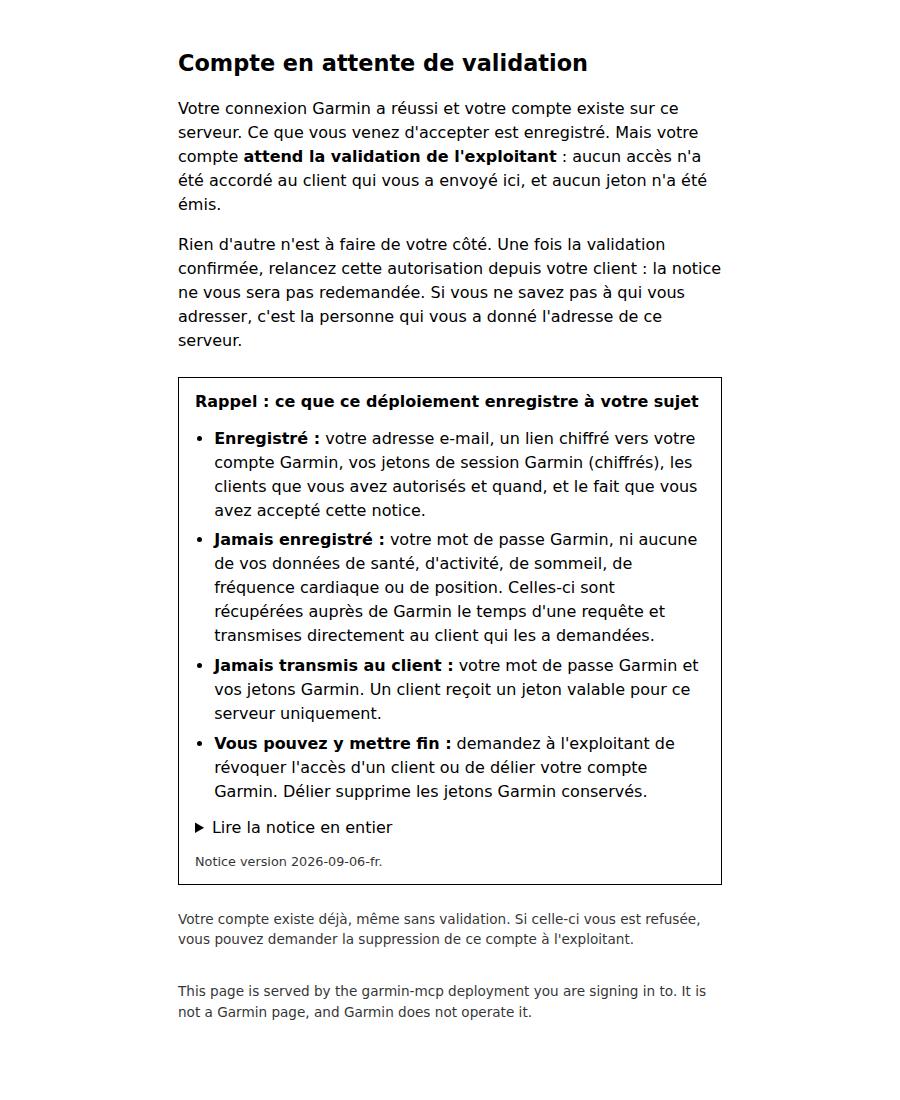
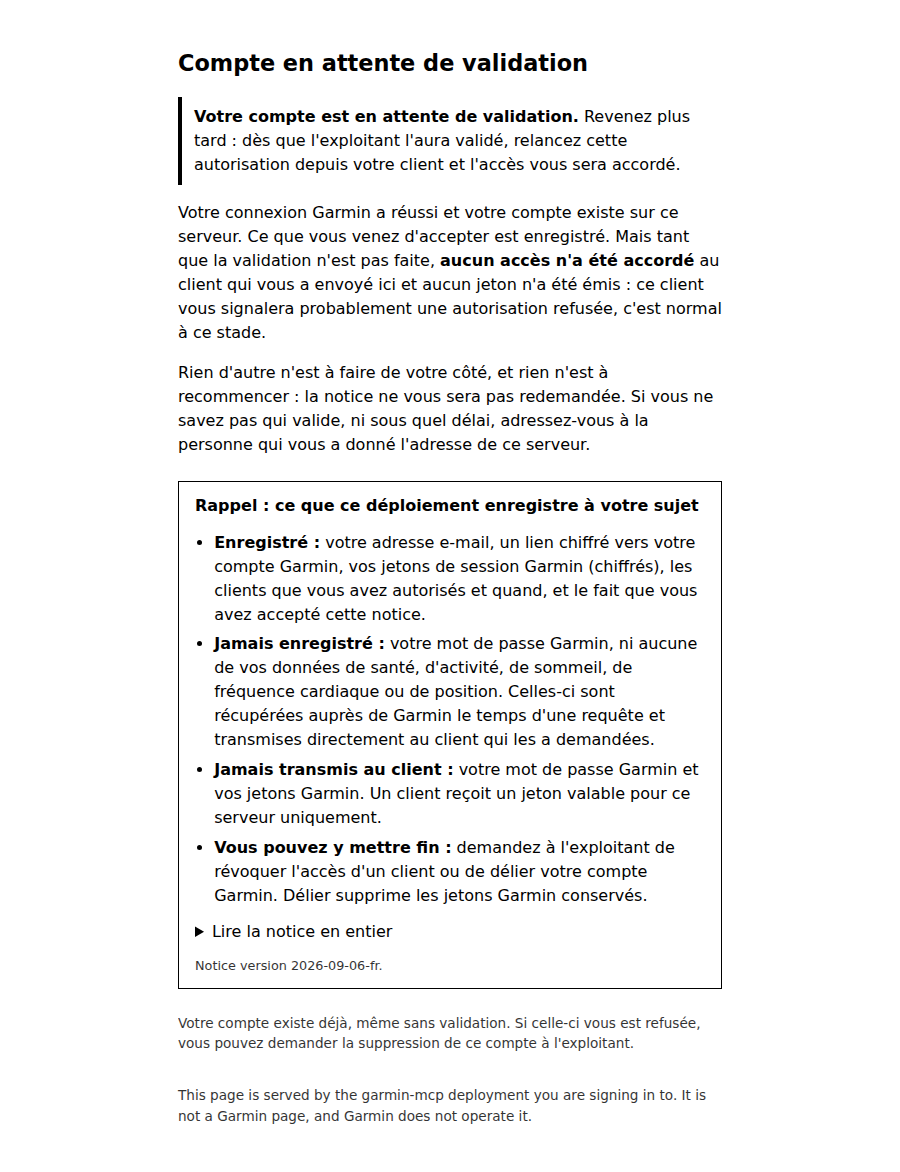
Dire clairement a l'utilisateur qu'il doit revenir plus tard
Le message existait mais se lisait comme du texte courant. Il est
desormais en tete de page, en encadre : « Votre compte est en attente de
validation. Revenez plus tard : des que l'exploitant l'aura valide,
relancez cette autorisation depuis votre client et l'acces vous sera
accorde. »

La page ajoute ce que la personne va observer et qui pourrait
l'inquieter : son client MCP lui signalera probablement une autorisation
refusee, ce qui est normal a ce stade puisque aucun jeton n'a ete emis.
Et elle precise qu'il n'y a rien a recommencer, la notice ne sera pas
redemandee.

Le bandeau de la page de consentement annonce la meme chose dans les
memes termes, pour qu'une personne qui lit les deux ne se demande pas
s'il s'agit de deux etats differents.

Verifie en executant : suite Go complete verte, le test de la page
d'attente exige maintenant les trois phrases qui portent le message, et
la page a ete relue dans Chromium — ce qui a rattrape une cesure fautive
(« adressez- vous ») introduite par une coupure de ligne dans le source.

Claude-Session: https://claude.ai/code/session_01WZYVEYkeEop6F5KTarVWiq

Changed region(s): [[0.1867, 0.0927, 0.8089, 0.9582], [0.1867, 0.0309, 0.6533, 0.0618]]

diff --git a/garmin-mcp/internal/loginweb/pages/remote/pending.html b/garmin-mcp/internal/loginweb/pages/remote/pending.html
@@ -1,14 +1,18 @@
 {{define "title"}}Compte en attente de validation{{end}}
 {{define "content"}}
-<p>Votre connexion Garmin a réussi et votre compte existe sur ce serveur. Ce que vous
-venez d'accepter est enregistré. Mais votre compte <strong>attend la validation de
-l'exploitant</strong> : aucun accès n'a été accordé au client qui vous a envoyé ici, et
-aucun jeton n'a été émis.</p>
+<p class="message"><strong>Votre compte est en attente de validation.</strong>
+Revenez plus tard : dès que l'exploitant l'aura validé, relancez cette autorisation
+depuis votre client et l'accès vous sera accordé.</p>
 
-<p>Rien d'autre n'est à faire de votre côté. Une fois la validation confirmée,
-relancez cette autorisation depuis votre client : la notice ne vous sera pas redemandée.
-Si vous ne savez pas à qui vous adresser, c'est la personne qui vous a donné l'adresse de
-ce serveur.</p>
+<p>Votre connexion Garmin a réussi et votre compte existe sur ce serveur. Ce que vous
+venez d'accepter est enregistré. Mais tant que la validation n'est pas faite,
+<strong>aucun accès n'a été accordé</strong> au client qui vous a envoyé ici et aucun
+jeton n'a été émis : ce client vous signalera probablement une autorisation refusée,
+c'est normal à ce stade.</p>
+
+<p>Rien d'autre n'est à faire de votre côté, et rien n'est à recommencer : la notice ne
+vous sera pas redemandée. Si vous ne savez pas qui valide, ni sous quel délai,
+adressez-vous à la personne qui vous a donné l'adresse de ce serveur.</p>
 
 <section class="privacy" aria-labelledby="privacy-heading">
 <h2 id="privacy-heading">Rappel : ce que ce déploiement enregistre à votre sujet</h2>

diff --git a/garmin-mcp/internal/loginweb/pages/remote/consent.html b/garmin-mcp/internal/loginweb/pages/remote/consent.html
@@ -2,10 +2,10 @@
 {{define "content"}}
 <p>Your Garmin account is signed in. Nothing has been granted yet.</p>
 {{if .AccountPending}}
-<p class="message">Votre compte attend la validation de l'exploitant. Vous pouvez
-accepter la notice ci-dessous dès maintenant — elle sera enregistrée — mais aucun accès
-ne sera accordé tant que la validation n'est pas faite. Il faudra alors relancer cette
-autorisation depuis votre client.</p>
+<p class="message"><strong>Votre compte est en attente de validation.</strong> Vous
+pouvez accepter la notice ci-dessous dès maintenant — elle sera enregistrée — mais aucun
+accès ne sera accordé tant que la validation n'est pas faite. Il faudra alors revenir
+plus tard et relancer cette autorisation depuis votre client.</p>
 {{end}}
 <p><strong>{{.Client.ClientName}}</strong> (<code>{{.Client.ClientID}}</code>) will
 receive a token for this deployment only. It never receives your Garmin password or

diff --git a/garmin-mcp/internal/loginweb/remoteprivacy_test.go b/garmin-mcp/internal/loginweb/remoteprivacy_test.go
@@ -199,15 +199,21 @@ func TestAHeldAccountAcceptsTheNoticeAndStillGetsNothing(t *testing.T) {
 	}
 	// And the page says what will happen, rather than offering an Allow that
 	// silently grants nothing.
-	if !strings.Contains(page, "attend la validation de l'exploitant") {
+	if !strings.Contains(page, "Votre compte est en attente de validation") {
 		t.Error("the consent page does not say the account is waiting")
 	}
 
 	resp, body := h.decidePage(page, decisionAllow)
 
 	wantStatus(t, resp, http.StatusForbidden, "POST /login/consent for a held account")
-	if !strings.Contains(body, "venez d'accepter est enregistré") {
-		t.Error("the pending page does not confirm that the acceptance was stored")
+	for _, want := range []string{
+		"Votre compte est en attente de validation",
+		"Revenez plus tard",
+		"venez d'accepter est enregistré",
+	} {
+		if !strings.Contains(body, want) {
+			t.Errorf("the pending page does not carry %q", want)
+		}
 	}
 	// The acceptance is stored; the access is not granted.
 	if h.privacy.count() != 1 {
@@ -242,7 +248,7 @@ func TestOnceApprovedTheNoticeIsNotAskedAgain(t *testing.T) {
 	if strings.Contains(second, `name="privacy_accepted"`) {
 		t.Error("the notice was asked again after approval")
 	}
-	if strings.Contains(second, "attend la validation") {
+	if strings.Contains(second, "en attente de validation") {
 		t.Error("the consent page still says the account is waiting")
 	}
 
